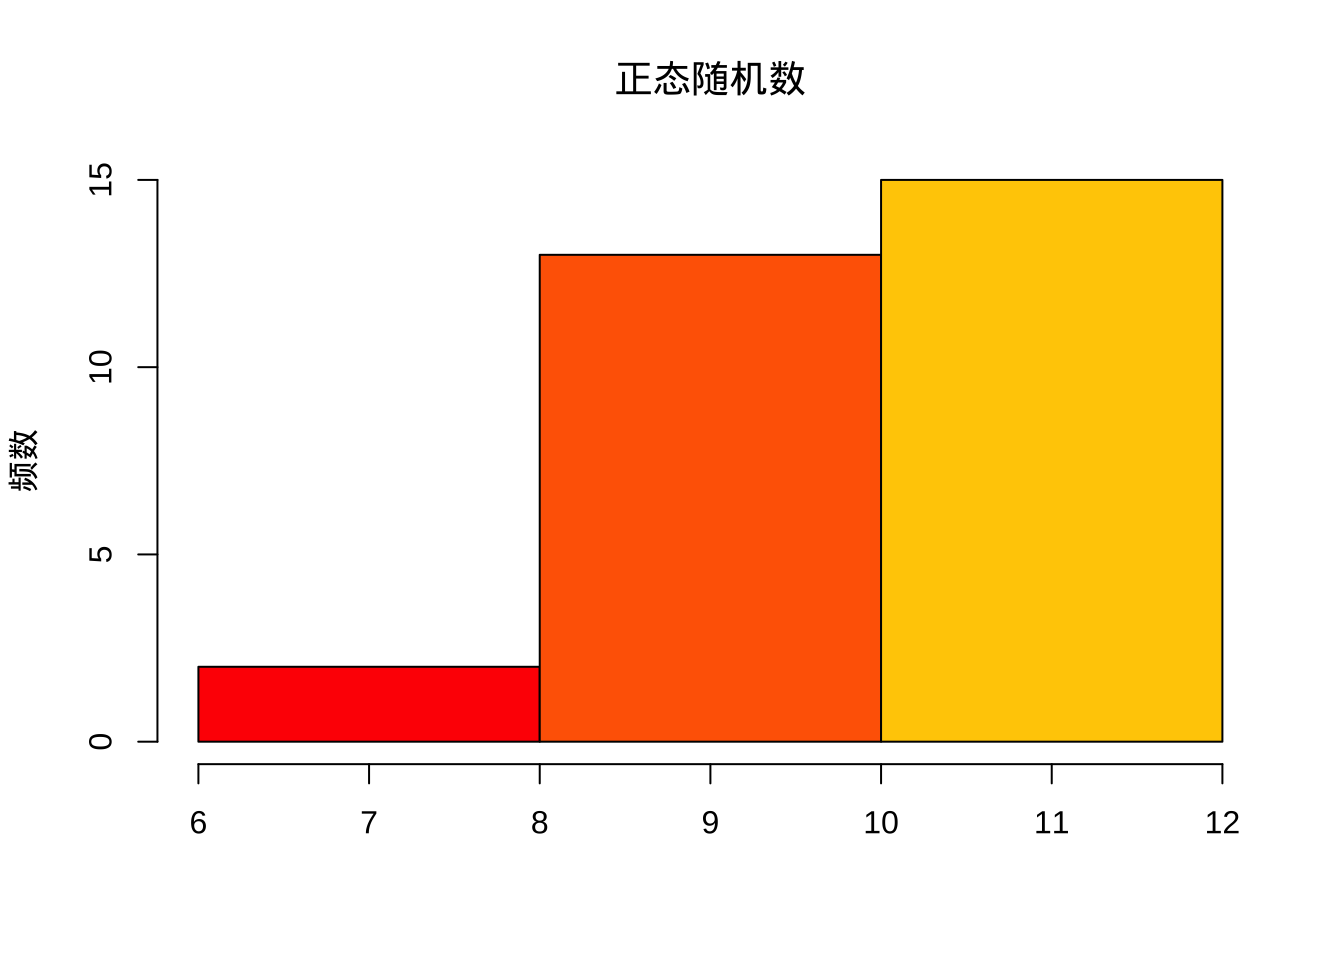
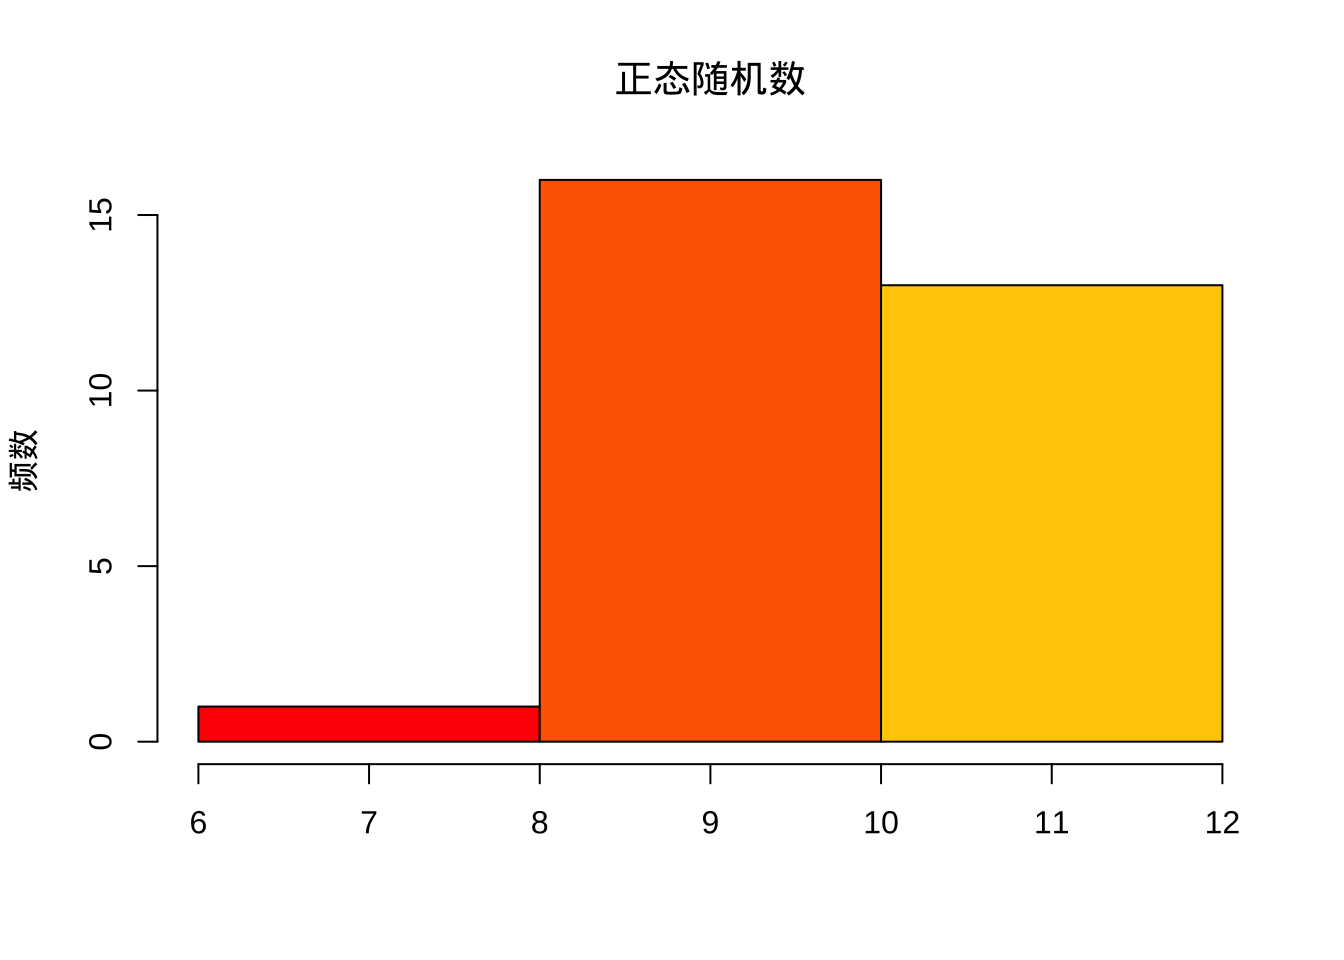
update

diff --git a/other-packages.html b/other-packages.html
@@ -64,6 +64,70 @@ MathJax.Hub.Config({
 </script>
 
 
+<style type="text/css">
+pre > code.sourceCode { white-space: pre; position: relative; }
+pre > code.sourceCode > span { display: inline-block; line-height: 1.25; }
+pre > code.sourceCode > span:empty { height: 1.2em; }
+.sourceCode { overflow: visible; }
+code.sourceCode > span { color: inherit; text-decoration: inherit; }
+pre.sourceCode { margin: 0; }
+@media screen {
+div.sourceCode { overflow: auto; }
+}
+@media print {
+pre > code.sourceCode { white-space: pre-wrap; }
+pre > code.sourceCode > span { text-indent: -5em; padding-left: 5em; }
+}
+pre.numberSource code
+  { counter-reset: source-line 0; }
+pre.numberSource code > span
+  { position: relative; left: -4em; counter-increment: source-line; }
+pre.numberSource code > span > a:first-child::before
+  { content: counter(source-line);
+    position: relative; left: -1em; text-align: right; vertical-align: baseline;
+    border: none; display: inline-block;
+    -webkit-touch-callout: none; -webkit-user-select: none;
+    -khtml-user-select: none; -moz-user-select: none;
+    -ms-user-select: none; user-select: none;
+    padding: 0 4px; width: 4em;
+    color: #aaaaaa;
+  }
+pre.numberSource { margin-left: 3em; border-left: 1px solid #aaaaaa;  padding-left: 4px; }
+div.sourceCode
+  {   }
+@media screen {
+pre > code.sourceCode > span > a:first-child::before { text-decoration: underline; }
+}
+code span.al { color: #ff0000; font-weight: bold; } /* Alert */
+code span.an { color: #60a0b0; font-weight: bold; font-style: italic; } /* Annotation */
+code span.at { color: #7d9029; } /* Attribute */
+code span.bn { color: #40a070; } /* BaseN */
+code span.bu { } /* BuiltIn */
+code span.cf { color: #007020; font-weight: bold; } /* ControlFlow */
+code span.ch { color: #4070a0; } /* Char */
+code span.cn { color: #880000; } /* Constant */
+code span.co { color: #60a0b0; font-style: italic; } /* Comment */
+code span.cv { color: #60a0b0; font-weight: bold; font-style: italic; } /* CommentVar */
+code span.do { color: #ba2121; font-style: italic; } /* Documentation */
+code span.dt { color: #902000; } /* DataType */
+code span.dv { color: #40a070; } /* DecVal */
+code span.er { color: #ff0000; font-weight: bold; } /* Error */
+code span.ex { } /* Extension */
+code span.fl { color: #40a070; } /* Float */
+code span.fu { color: #06287e; } /* Function */
+code span.im { } /* Import */
+code span.in { color: #60a0b0; font-weight: bold; font-style: italic; } /* Information */
+code span.kw { color: #007020; font-weight: bold; } /* Keyword */
+code span.op { color: #666666; } /* Operator */
+code span.ot { color: #007020; } /* Other */
+code span.pp { color: #bc7a00; } /* Preprocessor */
+code span.sc { color: #4070a0; } /* SpecialChar */
+code span.ss { color: #bb6688; } /* SpecialString */
+code span.st { color: #4070a0; } /* String */
+code span.va { color: #19177c; } /* Variable */
+code span.vs { color: #4070a0; } /* VerbatimString */
+code span.wa { color: #60a0b0; font-weight: bold; font-style: italic; } /* Warning */
+</style>
 
 </head>
 
@@ -291,6 +355,20 @@ gitbook.start({
 });
 </script>
 
+<!-- dynamically load mathjax for compatibility with self-contained -->
+<script>
+  (function () {
+    var script = document.createElement("script");
+    script.type = "text/javascript";
+    var src = "true";
+    if (src === "" || src === "true") src = "https://mathjax.rstudio.com/latest/MathJax.js?config=TeX-MML-AM_CHTML";
+    if (location.protocol !== "file:")
+      if (/^https?:/.test(src))
+        src = src.replace(/^https?:/, '');
+    script.src = src;
+    document.getElementsByTagName("head")[0].appendChild(script);
+  })();
+</script>
 </body>
 
 </html>

diff --git a/causal.html b/causal.html
@@ -281,9 +281,9 @@ code span.wa { color: #60a0b0; font-weight: bold; font-style: italic; } /* Warni
 <div class="sourceCode" id="cb1"><pre class="sourceCode r"><code class="sourceCode r"><span id="cb1-1"><a href="causal.html#cb1-1" aria-hidden="true" tabindex="-1"></a><span class="co"># 数据模拟产生</span></span>
 <span id="cb1-2"><a href="causal.html#cb1-2" aria-hidden="true" tabindex="-1"></a>x <span class="ot">&lt;-</span> <span class="fu">rnorm</span>(<span class="dv">30</span>, <span class="at">mean =</span> <span class="dv">10</span>, <span class="at">sd =</span> <span class="dv">1</span>)</span>
 <span id="cb1-3"><a href="causal.html#cb1-3" aria-hidden="true" tabindex="-1"></a><span class="fu">print</span>(<span class="fu">round</span>(x, <span class="dv">2</span>))</span></code></pre></div>
-<pre><code>##  [1] 10.38  9.39  8.99  9.64 10.48  8.34  9.19 10.24 10.67 10.22  9.26  9.47
-## [13]  8.43 11.38 10.45 10.28 10.60 11.53 11.57  9.08  9.20 11.87  7.63 10.99
-## [25]  9.19  9.86 11.32  9.47 10.62  7.72</code></pre>
+<pre><code>##  [1]  8.06 11.35 12.00  7.25 10.14  8.80  9.18 10.03 10.32 10.38  8.85 11.29
+## [13] 10.87  9.67  9.99 10.25 11.58 10.05  8.58  9.19  9.82  9.30  8.38  9.79
+## [25] 11.49 10.07  9.62  8.07  9.71  9.74</code></pre>
 <p><code>hist()</code>中的<code>breaks()</code>可以分段区间，取值可以是一个向量（各区间端点）或者一个数字（拆分为多少段），或者一个字符串（计算划分区间的算法名称），或者一个函数（划分区间个数的方法）。这里给出例子</p>
 <div class="sourceCode" id="cb3"><pre class="sourceCode r"><code class="sourceCode r"><span id="cb3-1"><a href="causal.html#cb3-1" aria-hidden="true" tabindex="-1"></a><span class="fu">hist</span>(x, <span class="at">breaks =</span> <span class="dv">3</span>)</span></code></pre></div>
 <p><img src="1001-chapter01_files/figure-html/unnamed-chunk-3-1.png" width="672" style="display: block; margin: auto;" /></p>

diff --git a/1001-chapter01.md b/1001-chapter01.md
@@ -31,9 +31,9 @@ print(round(x, 2))
 ```
 
 ```
-##  [1] 10.38  9.39  8.99  9.64 10.48  8.34  9.19 10.24 10.67 10.22  9.26  9.47
-## [13]  8.43 11.38 10.45 10.28 10.60 11.53 11.57  9.08  9.20 11.87  7.63 10.99
-## [25]  9.19  9.86 11.32  9.47 10.62  7.72
+##  [1]  8.06 11.35 12.00  7.25 10.14  8.80  9.18 10.03 10.32 10.38  8.85 11.29
+## [13] 10.87  9.67  9.99 10.25 11.58 10.05  8.58  9.19  9.82  9.30  8.38  9.79
+## [25] 11.49 10.07  9.62  8.07  9.71  9.74
 ```
 
 `hist()`中的`breaks()`可以分段区间，取值可以是一个向量（各区间端点）或者一个数字（拆分为多少段），或者一个字符串（计算划分区间的算法名称），或者一个函数（划分区间个数的方法）。这里给出例子
